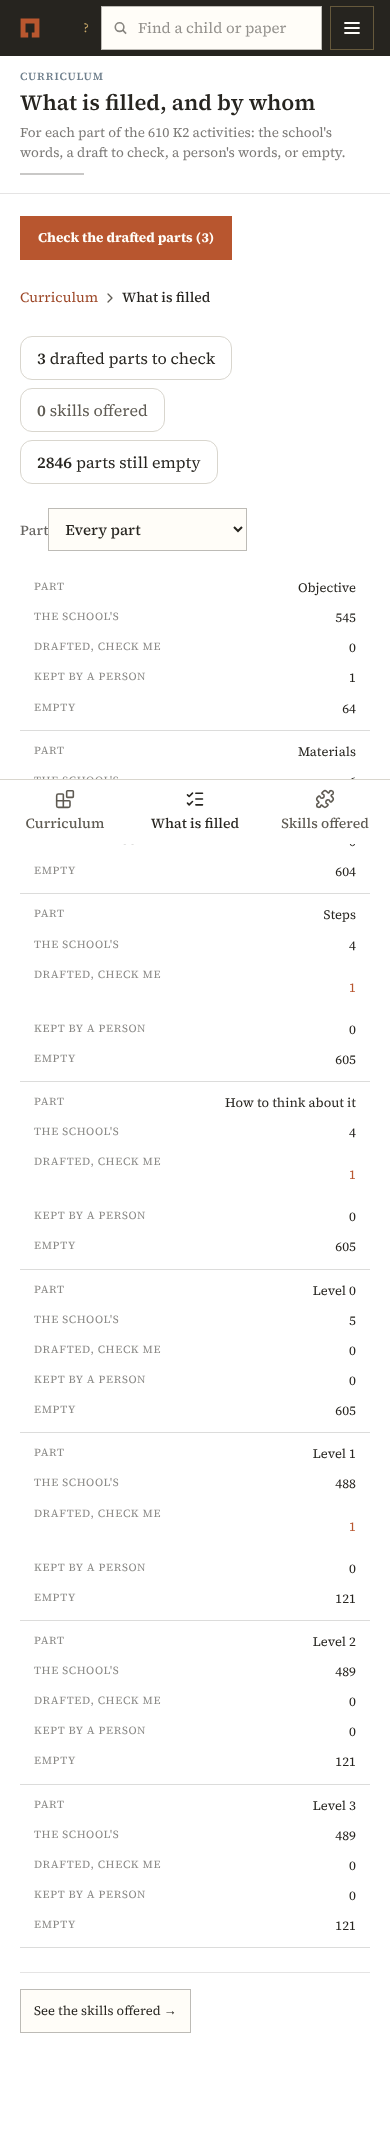
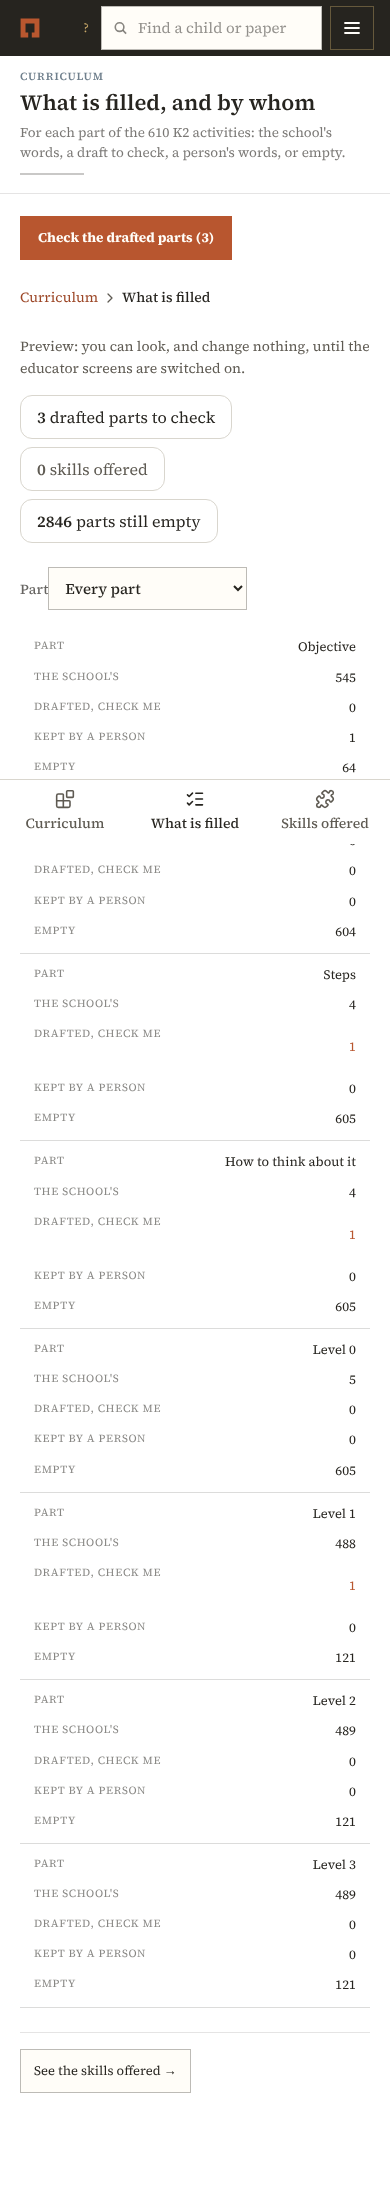
M1-13b: a preview only looks (D-076), the shell's own openTo, review fixes
Claude-Session: https://claude.ai/code/session_01KEBF28q3XY1kZwZMF6wuM7

diff --git a/apps/web/tests/m1-13-curriculum-fill.spec.ts b/apps/web/tests/m1-13-curriculum-fill.spec.ts
@@ -128,6 +128,7 @@ test("the fill view counts each part by who wrote it, and the four add up to eve
 });
 
 test("a person walks the drafted parts one by one: edit, keep, send back — five taps", async ({ page }) => {
+  await gate(sql, "open"); // changing a part needs the educator switch itself: a preview only looks
   taps = 0;
   await page.goto("/curriculum/fill");
   await tap(page.getByRole("link", { name: /Check the drafted parts/ }));
@@ -155,6 +156,7 @@ test("a person walks the drafted parts one by one: edit, keep, send back — fiv
 });
 
 test("the offered-skills queue shows the activity, skills, what was linked, the reason; yes links, no closes", async ({ page }) => {
+  await gate(sql, "open");
   await offers(sql, skills);
   await page.goto("/curriculum/offers");
   await expect(page.getByRole("heading", { level: 1 })).toHaveText("Skills offered, waiting for you");
@@ -176,6 +178,22 @@ test("the offered-skills queue shows the activity, skills, what was linked, the 
   const after = await sql<{ skill_code: string }[]>`select skill_code from activity_skill where activity_code = ${code(3)}`;
   expect(after.map((r) => r.skill_code)).not.toContain(skills[2]);
   await shoot(page, "offers-empty");
+  await clearOffers(sql);
+});
+
+test("the staff preview looks and changes nothing: the drafts and offers show, with no Keep, Edit, Send back, Yes or No", async ({ page }) => {
+  await gate(sql, "preview");
+  await offers(sql, skills);
+  await page.goto("/curriculum/fill/walk");
+  await expect(page.locator("[data-preview]")).toContainText("Preview");
+  await expect(page.locator("[data-card=steps] li")).toHaveCount(STEPS.length);
+  await expect(page.getByRole("button", { name: /Keep|Send back/ })).toHaveCount(0);
+  await expect(page.getByRole("link", { name: "Edit" })).toHaveCount(0);
+  await page.goto("/curriculum/offers");
+  await expect(page.locator("[data-offer]")).toHaveCount(2);
+  await expect(page.getByRole("button", { name: /Yes|No/ })).toHaveCount(0);
+  const [{ n }] = await sql<{ n: number }[]>`select count(*)::int as n from activity_part_source where activity_code = ${code(2)} and source = 'drafted'`;
+  expect(n).toBe(3); // nothing was kept or sent back
   await clearOffers(sql);
 });
 

diff --git a/apps/web/app/(app)/curriculum/chrome.tsx b/apps/web/app/(app)/curriculum/chrome.tsx
@@ -13,18 +13,27 @@ const AREA = {
   "/curriculum/offers": "Skills offered",
 } as const;
 
+/** Curriculum › where she is › the page: the browser is the area's own page, so it is named once. */
+function trail(here: keyof typeof AREA, crumb?: string) {
+  const area = { label: AREA[here], href: crumb ? here : undefined };
+  const top = { label: "Curriculum", href: here === "/curriculum/browse" && !crumb ? undefined : "/curriculum/browse" };
+  if (here === "/curriculum/browse") return crumb ? [top, { label: crumb }] : [{ label: "Curriculum" }];
+  return [top, area, ...(crumb ? [{ label: crumb }] : [])];
+}
+
 export async function Chrome({ here, crumb, children }: { here: keyof typeof AREA; crumb?: string; children: React.ReactNode }) {
   const me = await requireStaff();
-  await mustBeOn(me.email);
+  const { previewing } = await mustBeOn(me.email);
   const [drafted, gaps, offered] = await Promise.all([waiting(), gap(), readOffers(me.email).catch(() => null)]);
   const empty = gaps.reduce((n, g) => n + g.empty, 0);
   return (
     <>
-      <Crumbs trail={[{ label: "Curriculum", href: "/curriculum/browse" }, ...(here === "/curriculum/browse" && !crumb ? [] : [{ label: AREA[here], href: crumb ? here : undefined }]), ...(crumb ? [{ label: crumb }] : [])]} />
+      <Crumbs trail={trail(here, crumb)} />
+      {previewing ? <p data-preview className="mb-[var(--space-3)] text-[length:var(--text-label)] text-[var(--text-muted)]">Preview: you can look, and change nothing, until the educator screens are switched on.</p> : null}
       <Summary
         items={[
           { label: ["drafted part to check", "drafted parts to check"], n: drafted.length, href: "/curriculum/fill/walk" },
-          { label: ["skill offered", "skills offered"], n: offered?.length ?? 0, href: "/curriculum/offers" },
+          ...(offered ? [{ label: ["skill offered", "skills offered"] as const, n: offered.length, href: "/curriculum/offers" }] : []),
           { label: ["part still empty", "parts still empty"], n: empty, href: "/curriculum/fill" },
         ]}
       />

diff --git a/apps/web/lib/curriculum-screens.ts b/apps/web/lib/curriculum-screens.ts
@@ -1,8 +1,8 @@
 import { cache } from "react";
-import { notFound } from "next/navigation";
 import type { Session } from "./auth";
 import { sql } from "./db";
 import { engineSend } from "./engine";
+import { openTo } from "./educator/data";
 import { PART_KEYS, PART_WORDS, type PagePart, type PartKey } from "./page-part";
 
 // The curriculum screens (task M1-13): the browser, the fill view and its walk-through, the offered-skills queue. Reads
@@ -22,14 +22,10 @@ export const stateOf = cache(async (): Promise<(share: number) => State> => {
   return (share) => (share >= green ? "green" : share >= amber ? "amber" : "red");
 });
 
-/** Whether the curriculum screens are open to this sign-in: the engine's educator gate (switch on, or the staff preview),
- *  once per request. Not open, or not on the staff list, is not found, as the educator's screens are. */
-export const mustBeOn = cache(async (email: string): Promise<{ previewing: boolean }> => {
-  const res = await engineSend("/curriculum/page/gate", { actor: email });
-  if (res.status === 403 || res.status === 404) notFound();
-  if (!res.ok) throw new Error(`The engine refused that (${res.status}).`);
-  return (await res.json()) as { previewing: boolean };
-});
+/** Whether the curriculum screens are open to this sign-in: the educator gate (the switch on, or the staff preview), once
+ *  per request, through the same call the educator's screens make. Not open, or not on the staff list, is not found.
+ *  `previewing`: the switch is off and this person is the staff preview, who looks and changes nothing (D-076). */
+export const mustBeOn = cache(async (email: string): Promise<{ previewing: boolean }> => openTo({ email }));
 
 /** The grade these screens list: the config row `curriculum.screens_grade` (the code of a row of `grade`). */
 const grade = cache(async () => {

diff --git a/apps/web/app/(app)/curriculum/offers/page.tsx b/apps/web/app/(app)/curriculum/offers/page.tsx
@@ -10,7 +10,7 @@ import { Chrome, Empty, Pager } from "../chrome";
 // had already linked, and why it waits. Yes adds the link; No closes the offer.
 export default async function Offers({ searchParams }: { searchParams: Promise<Record<string, string | undefined>> }) {
   const me = await requireStaff();
-  await mustBeOn(me.email);
+  const { previewing } = await mustBeOn(me.email);
   const q = await searchParams;
   const all = await readOffers(me.email);
   const last = Math.max(1, Math.ceil(all.length / PAGE_SIZE));
@@ -43,11 +43,13 @@ export default async function Offers({ searchParams }: { searchParams: Promise<R
                 <b>Already linked:</b> {(had.get(o.activity.code) ?? []).map((s) => `${s.code} ${s.name}`).join(", ") || "none"}
               </p>
               <p className="cs-note">{o.reason}</p>
+              {previewing ? null : (
               <form action={answerOffer} className="cs-actions">
                 <input type="hidden" name="id" value={o.id} />
                 <button className="cs-btn" data-main type="submit" name="do" value="yes"><Icon name="confirm" size={16} /> Yes, add it</button>
                 <button className="cs-btn" type="submit" name="do" value="no"><Icon name="no" size={16} /> No</button>
               </form>
+              )}
             </section>
           ))}
         </div>

diff --git a/apps/web/app/(app)/curriculum/fill/walk/page.tsx b/apps/web/app/(app)/curriculum/fill/walk/page.tsx
@@ -9,7 +9,7 @@ import { PartCard } from "../../parts";
 // one is always the first; "Skip" moves along it without answering.
 export default async function Walk({ searchParams }: { searchParams: Promise<Record<string, string | undefined>> }) {
   const me = await requireStaff();
-  await mustBeOn(me.email);
+  const { previewing } = await mustBeOn(me.email);
   const q = await searchParams;
   const part = q.part ?? "";
   const line = (await waiting()).filter((w) => !part || w.part === part);
@@ -35,7 +35,7 @@ export default async function Walk({ searchParams }: { searchParams: Promise<Rec
             <p className="cs-note">
               {skip + 1} of {line.length} waiting for a check · {page.section} · <Link href={`/curriculum/fill/${page.code}`}>{page.code}</Link> {page.name}
             </p>
-            <PartCard part={card} code={page.code} back={back} editing={q.edit === "1"} editHref={`${back}${here.size ? "&" : "?"}edit=1`} />
+            <PartCard part={card} code={page.code} back={back} editing={q.edit === "1"} editHref={`${back}${here.size ? "&" : "?"}edit=1`} readOnly={previewing} />
             {line.length > 1 ? (
               <div className="cs-pager">
                 <span />

diff --git a/apps/web/app/(app)/curriculum/fill/[code]/page.tsx b/apps/web/app/(app)/curriculum/fill/[code]/page.tsx
@@ -9,7 +9,7 @@ import { PartCard } from "../../parts";
 // One activity with every part, who wrote it, and Keep / Edit / Send back on the drafted ones.
 export default async function ActivityFill({ params, searchParams }: { params: Promise<{ code: string }>; searchParams: Promise<Record<string, string | undefined>> }) {
   const me = await requireStaff();
-  await mustBeOn(me.email);
+  const { previewing } = await mustBeOn(me.email);
   const { code } = await params;
   const q = await searchParams;
   const page = await readPage(me, decodeURIComponent(code));
@@ -26,7 +26,7 @@ export default async function ActivityFill({ params, searchParams }: { params: P
       <Chrome here="/curriculum/browse" crumb={page.code}>
       <div className="cs-stack">
         {page.parts.map((p) => (
-          <PartCard key={p.part} part={p} code={page.code} back={back} editing={q.edit === p.part} editHref={`${back}?edit=${p.part}`} />
+          <PartCard key={p.part} part={p} code={page.code} back={back} editing={q.edit === p.part} editHref={`${back}?edit=${p.part}`} readOnly={previewing} />
         ))}
       </div>
       </Chrome>

diff --git a/apps/web/app/(app)/curriculum/parts.tsx b/apps/web/app/(app)/curriculum/parts.tsx
@@ -47,8 +47,8 @@ async function EditForm({ part, code, back }: { part: PagePart; code: string; ba
 }
 
 /** One part of a page. A drafted part carries Keep, Edit and Send back; `editing` swaps the words for the editor. */
-export function PartCard({ part, code, back, editHref, editing }: { part: PagePart; code: string; back: string; editHref: string; editing: boolean }) {
-  if (part.source !== "drafted") return <PartView part={part} />;
+export function PartCard({ part, code, back, editHref, editing, readOnly }: { part: PagePart; code: string; back: string; editHref: string; editing: boolean; readOnly?: boolean }) {
+  if (part.source !== "drafted" || readOnly) return <PartView part={part} />;
   if (editing) return <PartView part={part} editor={<EditForm part={part} code={code} back={back} />} />;
   return (
     <PartView

diff --git a/apps/web/lib/engine-routes.ts b/apps/web/lib/engine-routes.ts
@@ -55,7 +55,6 @@ export type EngineRoutes = {
   "POST /curriculum/offers/list": { actor: string };
   "POST /curriculum/page/confirm": { actor: string; code: string; part: string };
   "POST /curriculum/page/edit": { actor: string; code: string; part: string; text?: string | null; items?: string[] | null; idea?: string | null; slips?: { keyword: string; spot: string }[] | null };
-  "POST /curriculum/page/gate": { actor: string };
   "POST /curriculum/page/read": { actor: string; code: string };
   "POST /curriculum/page/revert": { actor: string; code: string; part: string };
   "POST /graph/rebuild": { child_id?: string | null };

diff --git a/packages/engine/tests/api/test_curriculum_gate.py b/packages/engine/tests/api/test_curriculum_gate.py
@@ -1,6 +1,7 @@
-"""The curriculum screens answer to the educator gate (goals/m1-14-curriculum-on-the-shell.yaml; D-076, w2_print/educator_gate.py):
+"""The curriculum screens answer to the educator gate (goals/m1-13b-curriculum-on-the-shell.yaml; D-076, w2_print/educator_gate.py):
 the page and offers routes answer when `educator.timetable_enabled` is on or the member of staff holds a role
-`educator.preview_roles` names, and are refused otherwise, before anything is read or changed."""
+`educator.preview_roles` names, and are refused otherwise, before anything is read or changed. A preview only looks
+(D-076): the routes that change something need the switch itself."""
 
 import os
 
@@ -18,6 +19,8 @@ KEY = "test-engine-key"
 H = {"X-Engine-Key": KEY}
 WHO = {"actor": "x@school.invalid"}
 OFF = "The curriculum screens are not switched on."
+LOOK = "The preview only looks: the curriculum screens are not switched on."
+WRITES = ("page/confirm", "page/revert", "page/edit", "offers/answer")
 
 
 @pytest.fixture
@@ -47,10 +50,9 @@ def _grant(conn, role: str):
     )
 
 
-def calls(client):
+def calls():
     part = {**WHO, "code": "KX-1", "part": "steps"}
     return {
-        "page/gate": WHO,
         "page/read": {**WHO, "code": "KX-1"},
         "page/confirm": part,
         "page/revert": part,
@@ -64,7 +66,7 @@ def test_switched_off_every_route_is_refused_to_staff_with_no_preview_role_and_n
     drafted_page(conn)
     _switch(conn, False)
     before = conn.execute("select steps from activity where code = 'KX-1'").fetchone()["steps"]
-    for path, body in calls(client).items():
+    for path, body in calls().items():
         got = client.post(f"/curriculum/{path}", json=body, headers=H)
         assert (got.status_code, got.json()["detail"]) == (403, OFF), path
     assert conn.execute("select steps from activity where code = 'KX-1'").fetchone()["steps"] == before
@@ -76,35 +78,41 @@ def test_switched_off_every_route_is_refused_to_staff_with_no_preview_role_and_n
     )
 
 
-def test_switched_off_a_role_the_preview_names_gets_through(client, conn):
+def test_switched_off_a_role_the_preview_names_may_look(client, conn):
     drafted_page(conn)
     _switch(conn, False)
     _grant(conn, "head")
-    assert client.post("/curriculum/page/gate", json=WHO, headers=H).json() == {
-        "open": True,
-        "previewing": True,
-    }
     assert client.post("/curriculum/page/read", json={**WHO, "code": "KX-1"}, headers=H).status_code == 200
     assert client.post("/curriculum/offers/list", json=WHO, headers=H).status_code == 200
 
 
+def test_switched_off_a_preview_changes_nothing(client, conn):
+    drafted_page(conn)
+    _switch(conn, False)
+    _grant(conn, "head")
+    before = conn.execute("select steps from activity where code = 'KX-1'").fetchone()["steps"]
+    for path in WRITES:
+        got = client.post(f"/curriculum/{path}", json=calls()[path], headers=H)
+        assert (got.status_code, got.json()["detail"]) == (403, LOOK), path
+    assert conn.execute("select steps from activity where code = 'KX-1'").fetchone()["steps"] == before
+
+
 def test_a_role_the_preview_does_not_name_gets_nothing(client, conn):
+    drafted_page(conn)
     _switch(conn, False)
     _grant(conn, "ops")
-    assert client.post("/curriculum/page/gate", json=WHO, headers=H).status_code == 403
+    assert client.post("/curriculum/page/read", json={**WHO, "code": "KX-1"}, headers=H).status_code == 403
 
 
-def test_switched_on_anyone_on_the_staff_list_gets_through_and_nobody_else(client, conn):
+def test_switched_on_staff_may_look_and_change_and_a_stranger_is_refused(client, conn):
     drafted_page(conn)
     _switch(conn, True)
-    assert client.post("/curriculum/page/gate", json=WHO, headers=H).json() == {
-        "open": True,
-        "previewing": False,
-    }
-    stranger = {"actor": "stranger@elsewhere.invalid"}
-    got = client.post("/curriculum/page/gate", json=stranger, headers=H)
-    assert got.status_code == 403 and got.json()["detail"] != OFF  # not on the staff list: the old refusal
-
-
-def test_the_gate_needs_the_engines_key(client):
-    assert client.post("/curriculum/page/gate", json=WHO).status_code == 401
+    assert client.post("/curriculum/page/read", json={**WHO, "code": "KX-1"}, headers=H).status_code == 200
+    kept = client.post("/curriculum/page/confirm", json=calls()["page/confirm"], headers=H)
+    assert kept.status_code == 200, kept.text
+    stranger = {"actor": "stranger@elsewhere.invalid", "code": "KX-1"}
+    got = client.post("/curriculum/page/read", json=stranger, headers=H)
+    assert got.status_code == 403 and got.json()["detail"] not in (
+        OFF,
+        LOOK,
+    )  # not on the staff list: the old refusal

diff --git a/packages/engine/engine/api/routes/page.py b/packages/engine/engine/api/routes/page.py
@@ -10,7 +10,6 @@ from pydantic import BaseModel
 
 from engine.api.deps import curriculum_staff, get_conn, get_tenant_id, require_engine_key
 from engine.w1_bank import k2_page, k2_review
-from engine.w2_print import educator_gate
 
 router = APIRouter(prefix="/curriculum/page", dependencies=[Depends(require_engine_key)])
 
@@ -81,8 +80,8 @@ class Page(BaseModel):
     draft: Draft | None
 
 
-def _staff(conn, who: Who) -> UUID:
-    return curriculum_staff(conn, who.actor)
+def _staff(conn, who: Who, writes: bool = False) -> UUID:
+    return curriculum_staff(conn, who.actor, writes=writes)
 
 
 def _page(conn, tenant_id: str, code: str) -> dict:
@@ -94,23 +93,11 @@ def _page(conn, tenant_id: str, code: str) -> dict:
 
 def _answer(conn, tenant_id: str, body: PartRef, act) -> dict:
     try:
-        act(conn, UUID(str(tenant_id)), _staff(conn, body), body.code, body.part)
+        act(conn, UUID(str(tenant_id)), _staff(conn, body, writes=True), body.code, body.part)
     except ValueError as e:
         taken = "not a drafted part" in str(e)
         raise HTTPException(status_code=409 if taken else 422, detail=str(e)) from None
     return _page(conn, tenant_id, body.code)
-
-
-class Gate(BaseModel):
-    open: bool
-    previewing: bool  # switched off, and this person is the staff preview
-
-
-@router.post("/gate", response_model=Gate)
-def gate(body: Who, conn=Depends(get_conn, scope="function")):
-    """Whether the curriculum screens are open to this sign-in (the site asks before it reads a row of its own)."""
-    sid = _staff(conn, body)
-    return Gate(open=True, previewing=educator_gate.previewing(conn, sid))
 
 
 @router.post("/read", response_model=Page)
@@ -139,7 +126,7 @@ def edit(body: Edit, conn=Depends(get_conn, scope="function"), tenant_id: str = 
         value = body.items
     elif body.idea is not None or body.slips is not None:
         value = {"idea": body.idea, "slips": [s.model_dump() for s in body.slips or []]}
-    staff = _staff(conn, body)
+    staff = _staff(conn, body, writes=True)
     try:
         k2_review.change(conn, UUID(str(tenant_id)), staff, body.code, body.part, value)
     except ValueError as e:

diff --git a/packages/engine/engine/api/deps.py b/packages/engine/engine/api/deps.py
@@ -87,13 +87,18 @@ def tenant_now() -> str:
         return get_tenant_id(conn)
 
 
-def curriculum_staff(conn, actor: str):
+def curriculum_staff(conn, actor: str, *, writes: bool = False):
     """The member of staff behind `actor`, once the educator gate lets them through (D-076, educator_gate): the switch
-    on, or a role `educator.preview_roles` names. The one check every route of the curriculum screens makes first, before
-    any field is read, so a refused call learns nothing."""
+    on, or a role `educator.preview_roles` names. A preview only looks, so a route that changes something (`writes`)
+    needs the switch itself. The one check every route of the curriculum screens makes first, before any field is read,
+    so a refused call learns nothing."""
     sid = db.one(conn, "select public.staff_of_email(%s) as id", (actor,))["id"]
     if sid is None:
         raise HTTPException(status_code=403, detail="This sign-in is not on the staff list.")
     if not educator_gate.open_to(conn, sid):
         raise HTTPException(status_code=403, detail="The curriculum screens are not switched on.")
+    if writes and not educator_gate.switched_on(conn):
+        raise HTTPException(
+            status_code=403, detail="The preview only looks: the curriculum screens are not switched on."
+        )
     return sid

diff --git a/packages/engine/engine/api/routes/offers.py b/packages/engine/engine/api/routes/offers.py
@@ -49,8 +49,8 @@ class Offers(BaseModel):
     offers: list[Offer]
 
 
-def _staff(conn, who: Who) -> UUID:
-    return curriculum_staff(conn, who.actor)
+def _staff(conn, who: Who, writes: bool = False) -> UUID:
+    return curriculum_staff(conn, who.actor, writes=writes)
 
 
 @router.post("/list", response_model=Offers)
@@ -62,7 +62,7 @@ def waiting(body: Who, conn=Depends(get_conn, scope="function"), tenant_id: str 
 @router.post("/answer", response_model=Offers)
 def answer(body: Answer, conn=Depends(get_conn, scope="function"), tenant_id: str = Depends(get_tenant_id)):
     """Yes adds the skills; no closes the proposal. The list that is left comes back."""
-    staff, tenant = _staff(conn, body), UUID(str(tenant_id))
+    staff, tenant = _staff(conn, body, writes=True), UUID(str(tenant_id))
     try:
         skill_offers.answer(conn, tenant, staff, str(body.id), body.yes, body.why)
     except ValueError as e:
